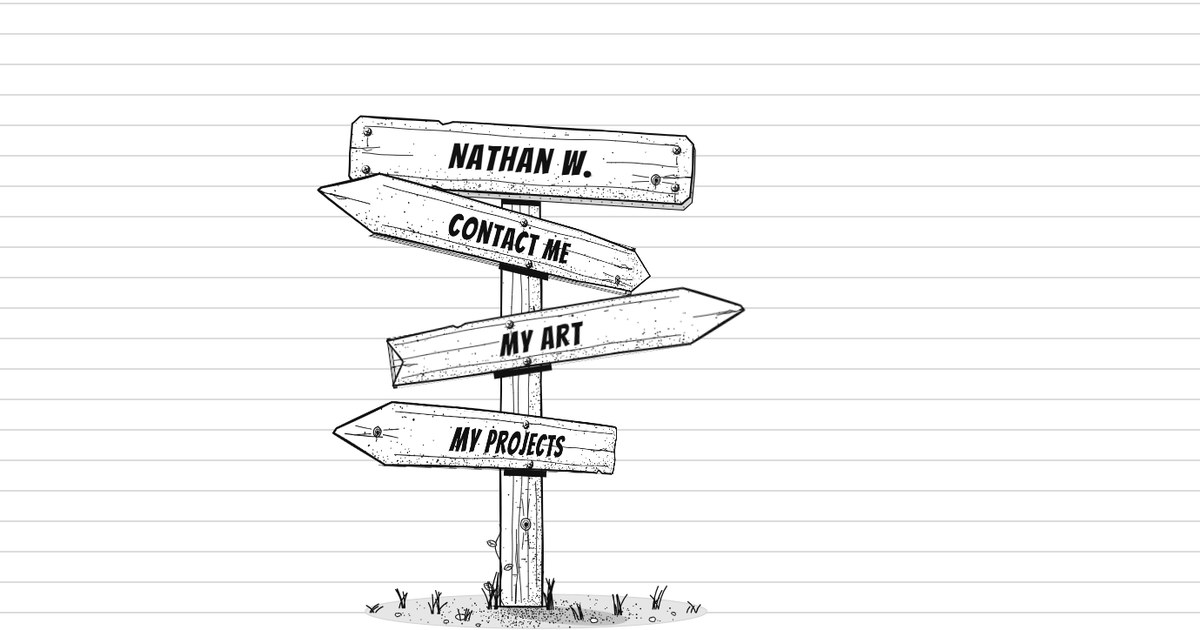
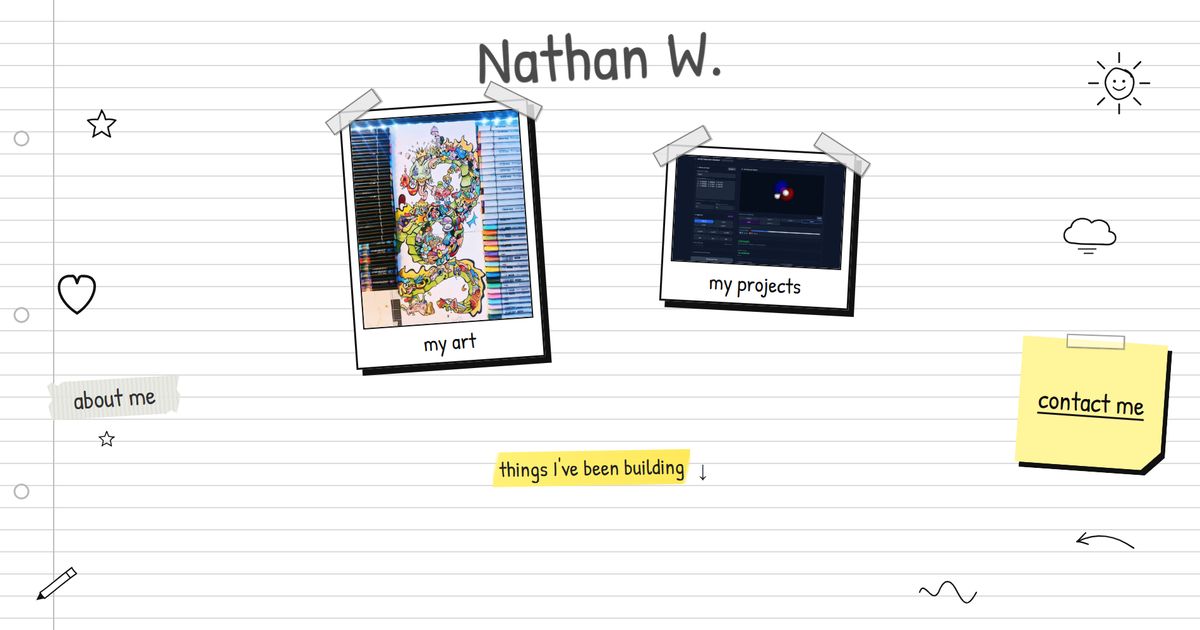
HF-SCF study without the bug notes; link preview image from the current landing page

Changed region(s): [[0.0, 0.0302, 1.0, 1.0]]

diff --git a/components/signs/studies.ts b/components/signs/studies.ts
@@ -283,16 +283,14 @@ export const STUDIES: Record<string, Study> = {
     contribution: "I built this project end to end by myself: the integral code, the SCF, the symmetry handling, the FastAPI layer, both front ends, and the deployment setup. The repo has one author in its git history.",
     challenges: [
       "Two-electron integrals in Python were the bottleneck. The integrals module documents the hot-path changes: an erf-based Boys function instead of scipy's hyp1f1, fully iterative E and R tables, and Numba JIT for the primitive loop. The time estimator is calibrated from a benzene STO-3G run (36 functions, 222,111 unique quartets, about 12.5 s with a warm JIT), so the UI can warn before a long job (photo 4, 'Pre-calculation estimate').",
-      "Split-valence sets like 6-31G drove the SCF into unphysical states. The code comment records overlap eigenvalues of 0.02-0.09 being amplified 7-37x by S^-1/2, so I added a SAD initial guess and dropped overlap eigenvectors below 0.10. Re-checking this for this page, the real cause was the Boys-function bug below: with it present and nothing else in the way, water 6-31G* lands at -77.15 Ha, below the variational value, which no basis-set cut can fix. With the Boys fix every function can be kept and the SCF converges normally, so the 0.10 cut is a workaround that throws away real basis functions (5 of 34 in formaldehyde 6-31G*, costing 0.15 Ha).",
+      "Split-valence sets like 6-31G drove the SCF into unphysical states. The code comment records overlap eigenvalues of 0.02-0.09 being amplified 7-37x by S^-1/2, so I added a SAD initial guess and dropped overlap eigenvectors below 0.10.",
       "DIIS misbehaved near convergence because near-duplicate history makes the B matrix near-singular. The solve uses lstsq (minimum-norm, which degrades to equal-weight averaging), extrapolation is skipped if any coefficient exceeds 50, and an oscillation detector resets the history and damps the density.",
-      "Writing this page turned up a real bug. Water STO-3G reports -74.0358 Ha (photo 1) where the textbook value is -74.963 Ha. Re-running the code traced this to the SALC step that zeroes ERI quartets: it uses the rule 'irrep(a)=irrep(b) and irrep(c)=irrep(d)', which zeroes 81.6% of water's quartets, when the correct rule only needs irrep(a) x irrep(b) = irrep(c) x irrep(d). Turning that projection off gives -74.9555 Ha. A second bug is in the Boys function's small-x Taylor branch (a missing (2n+2k-1) factor; 129% error at x=0.99 for n=8, and 6% even for n=0). With both corrected the same integrals give -74.9629 Ha. A third problem is in the data: the hardcoded 6-31G table reuses carbon's core-s contraction coefficients for every element and its N and O entries differ from the Basis Set Exchange, which costs about 10 mHa for water. The fixes are queued for the repo; the numbers in the photos are from the version before them.",
     ],
     results: [
-      "Water STO-3G (photos 1 and 4): 7 basis functions, 10 electrons, 406 unique ERI quartets, point group C2v detected with 3 symmetry blocks, converged in 9 cycles in 0.1-0.2 s once the JIT is warm (a cold first call spends about 30 s compiling). Reported energy -74.03583859 Ha, which is 0.93 Ha above the correct STO-3G value.",
-      "With the symmetry projection disabled and the Boys series corrected, the unchanged integral code gives -74.962933 Ha for the same water geometry and orbital energies of -20.2417, -1.2684, -0.6179, -0.4530, -0.3912 Ha (LUMO +0.6056 Ha), matching the Szabo-Ostlund STO-3G water table (-74.963 Ha). With BSE's 6-31G* data injected in place of the hardcoded table, the fixed code gives -76.0105 Ha against the textbook -76.011 Ha, so the McMurchie-Davidson machinery, including d functions, and the SCF loop are right; the bugs sit on top of them.",
-      "Formaldehyde 6-31G* (photo 3): 34 Cartesian basis functions, 16 electrons, and the LUMO is the expected pi* (C px against O px). Reported energy -112.4074 Ha after 111 cycles. With the two fixes, the 0.10 cut removed and the shipped basis table it gives -113.8569 Ha; with BSE's 6-31G* data -113.8648 Ha.",
-      "Photo 2 shows water's HOMO, the out-of-plane oxygen 2p lone pair, as blue/red phase lobes from a 60x60x60 .cube at isovalue 0.04. The corrected Koopmans IP for water is 10.64 eV (gallery shows 5.83 eV) and the dipole 1.73 D (gallery 1.61 D).",
-      "Code: 3,855 lines of backend Python, 1,344 lines of React, a 734-line single-file HTML UI served by the backend (Tailwind and 3Dmol from CDNs), 21 basis-set names, 6 BSE sets cached (129 KB). The 53 pytest tests date from an earlier PySCF-backed version: one file fails at import and the rest call arguments and fields that no longer exist, so there is no automated accuracy check yet.",
+      "Water STO-3G (photos 1 and 4): 7 basis functions, 10 electrons, 406 unique ERI quartets, point group C2v detected with 3 symmetry blocks, converged in 9 cycles in 0.1-0.2 s once the JIT is warm (a cold first call spends about 30 s compiling). Reported total energy -74.0358 Ha.",
+      "Formaldehyde 6-31G* (photo 3): 34 Cartesian basis functions, 16 electrons, and the LUMO is the expected pi* (C px against O px). Reported energy -112.4074 Ha after 111 cycles.",
+      "Photo 2 shows water's HOMO, the out-of-plane oxygen 2p lone pair, as blue/red phase lobes from a 60x60x60 .cube at isovalue 0.04.",
+      "Code: 3,855 lines of backend Python, 1,344 lines of React, a 734-line single-file HTML UI served by the backend (Tailwind and 3Dmol from CDNs), 21 basis-set names, 6 BSE sets cached (129 KB).",
     ],
     snippet: { lang: "python", code: "J = np.einsum(\"kl,mnkl->mn\", P, ERI)\nK = np.einsum(\"kl,mknl->mn\", P, ERI)\nG = J - 0.5 * K\nF_phys = H_core + G\nerr_ao = F_phys @ P @ S - S @ P @ F_phys\nerr = Z.T @ err_ao @ Z\ndiis.push(F_phys, err)\nF_diis = diis.extrapolate()\nF_for_diag = F_diis if F_diis is not None else F_phys\nFz = Z.T @ F_for_diag @ Z\neps, Cp = np.linalg.eigh(Fz)\nC = Z @ Cp\nP_new = 2.0 * C[:, :n_occ] @ C[:, :n_occ].T\ndelta = float(np.max(np.abs(P_new - P)))", note: "backend/scf_engine.py, lines 1092-1152 (indentation and branch lines removed; a symmetric molecule takes the _block_eigh branch instead of eigh) - one SCF cycle: J/K from the stored ERI tensor, DIIS error in the orthogonal SALC basis, diagonalise, rebuild the density, check convergence." },
     tech: [

diff --git a/app/layout.tsx b/app/layout.tsx
@@ -27,7 +27,7 @@ export const metadata: Metadata = {
     url: '/',
     siteName: 'Nathan W.',
     type: 'website',
-    images: [{ url: '/og.png', width: 1200, height: 630, alt: 'A hand-drawn wooden signpost: Contact me, My art, My projects' }],
+    images: [{ url: '/og.png', width: 1200, height: 630, alt: 'Nathan W. — a lined-paper page with taped photos of his art and projects' }],
   },
   twitter: {
     card: 'summary_large_image',
